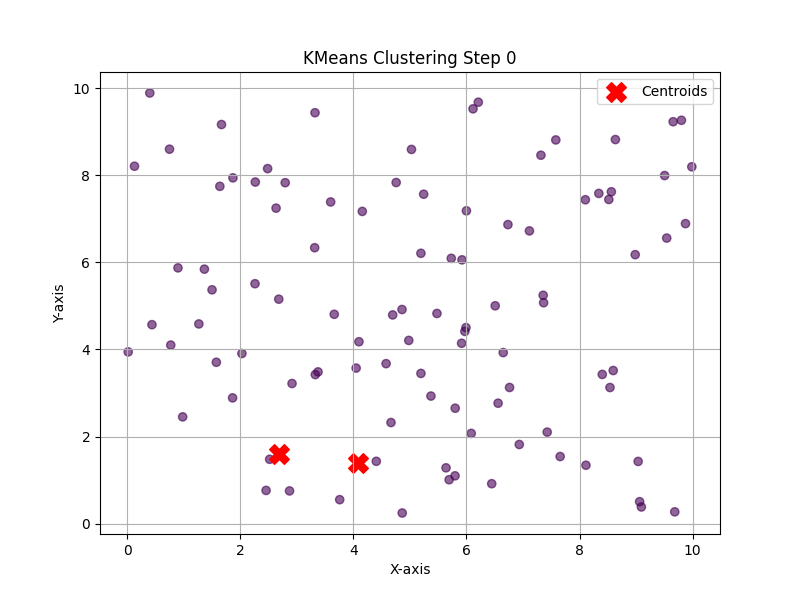
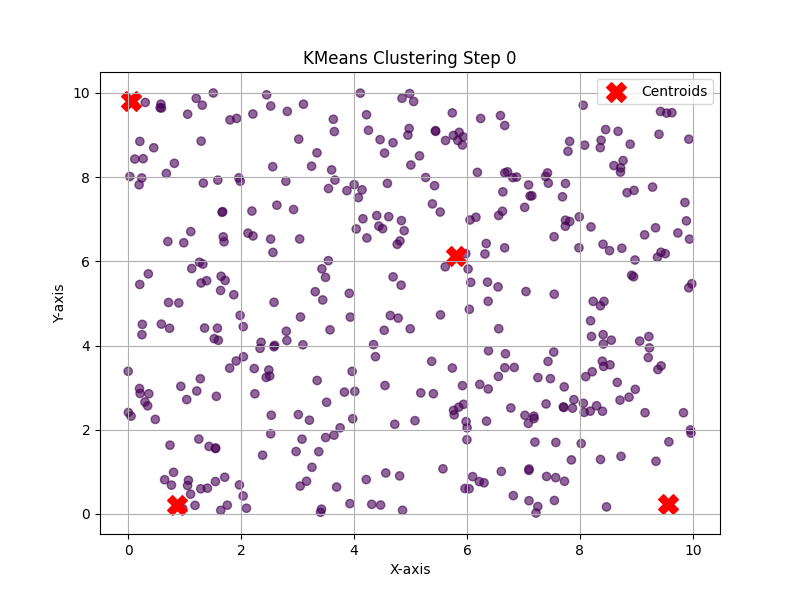
implement everything except manual

diff --git a/static/scripts.js b/static/scripts.js
@@ -4,7 +4,8 @@ let totalSteps = 0;
 
 
 function generateInitialVisualization(){
-    const url = `/initial`;
+    const numPoints = document.getElementById('numPoints').value || 100;
+    const url = `/initial?numPoints=${numPoints}&t=${new Date().getTime()}`;
 
     const img = document.getElementById('data-visualization');
     img.src = url;
@@ -30,7 +31,7 @@ function stepThroughKMeans() {
                     return;
                 }
                 // Start the visualization process
-                currentStep++;
+                currentStep = 1;
                 updateVisualization();
             })
             .catch(error => console.error("Error during initialization:", error));
@@ -42,7 +43,6 @@ function stepThroughKMeans() {
         }
         
         // Show the next step visualization
-        currentStep++;
         updateVisualization();
     }
 }
@@ -59,40 +59,159 @@ function updateVisualization() {
 // Function to run to convergence
 function runToConvergence() {
     // Implement functionality to complete the algorithm
-    const kClusters = document.getElementById('kClusters').value;
-    const initMethod = document.getElementById('initMethod').value;
+    if (currentStep == 0) {
+        const kClusters = document.getElementById('kClusters').value;
+        const initMethod = document.getElementById('initMethod').value;
+        
+        // Create the URL for the initial generation request
+        const url = `/generate?k=${kClusters}&init_method=${initMethod}`;
+        
+        // Make an AJAX request to get the total steps from the server
+        fetch(url)
+            .then(response => response.text()) // Assuming the server returns a plain text with totalSteps
+            .then(data => {
+                totalSteps = parseInt(data, 10); // Convert the response to an integer
+                if (isNaN(totalSteps)) {
+                    console.error("Failed to retrieve total steps from the server.");
+                    return;
+                }
+                // Start the visualization process
+                currentStep = totalSteps;
+                updateVisualization();
+            })
+            .catch(error => console.error("Error during initialization:", error));
+    } else {
+        // Check if we have reached the total steps
+        if (currentStep >= totalSteps) {
+            alert("KMeans has converged.");
+            return; // Stop if we've reached the end
+        }
+        
+        // Show the next step visualization
+        currentStep = totalSteps;
+        updateVisualization();
+    }
 }
 
 // Function to generate a new dataset
 function generateNewDataset() {
-    resetAlgorithm();  // Reset any existing data
-    generateInitialVisualization();  // Generate a new dataset
+
+    const numPoints = document.getElementById('numPoints').value || 100;
+    const url = `/newDataset?numPoints=${numPoints}&t=${new Date().getTime()}`;
+
+    currentStep = 0;
+    totalSteps = 0;
+
+    const img = document.getElementById('data-visualization');
+    img.src = url;
+    img.style.display = 'block'; // Show the image
+
 }
 
 // Function to reset the algorithm
 function resetAlgorithm() {
     // Reset necessary variables and UI components
-    document.getElementById('kClusters').value = '';
-    document.getElementById('initMethod').selectedIndex = 0;
+    const url = `/reset`;
+
     const img = document.getElementById('data-visualization');
-    img.src = ''; // Hide the image
+    img.src = url;
+    img.style.display = 'block'; // Show the image
+    currentStep = 0;
+    totalSteps = 0;
 }
+document.getElementById('initMethod').addEventListener('change', function () {
+    const selectedMethod = this.value;
+    const canvas = document.getElementById('manualCanvas');
+    const img = document.getElementById('data-visualization');
+
+    if (selectedMethod === 'manual') {
+        img.style.display = 'none';
+        canvas.style.display = 'block';
+        initManualSelection();
+    } else {
+        canvas.style.display = 'none';
+        img.style.display = 'block';
+    }
+});
+
+let manualPoints = [];
+let kValue = 0;
+
+function initManualSelection() {
+    const canvas = document.getElementById('manualCanvas');
+    const ctx = canvas.getContext('2d');
+    ctx.clearRect(0, 0, canvas.width, canvas.height); // Clear canvas
+    manualPoints = [];
+    
+    // Retrieve the value of k from the input
+    kValue = parseInt(document.getElementById('kClusters').value);
+
+    if (isNaN(kValue) || kValue <= 0) {
+        alert("Please enter a valid number of clusters (k) before selecting points.");
+        return;
+    }
+
+    // Add event listener for clicking on the canvas
+    canvas.addEventListener('click', selectPoint);
+}
+
+function selectPoint(event) {
+    if (manualPoints.length >= kValue) {
+        alert(`You have already selected ${kValue} points.`);
+        return;
+    }
+
+    const canvas = document.getElementById('manualCanvas');
+    const rect = canvas.getBoundingClientRect();
+    const x = event.clientX - rect.left;
+    const y = event.clientY - rect.top;
+    const ctx = canvas.getContext('2d');
+
+    drawPoint(x, y, ctx);
+    manualPoints.push({ x: x, y: y });
+
+    console.log('Selected Points:', manualPoints);
+
+    if (manualPoints.length === kValue) {
+        alert(`You have selected all ${kValue} points.`);
+        // Optionally, disable further clicks or start the KMeans algorithm
+        canvas.removeEventListener('click', selectPoint);
+    }
+}
+
+function drawPoint(x, y, ctx) {
+    ctx.beginPath();
+    ctx.arc(x, y, 5, 0, 2 * Math.PI);
+    ctx.fillStyle = 'red';
+    ctx.fill();
+    ctx.stroke();
+}
+
+// Function to send manual points to the server when KMeans starts
+function startKMeansWithManualPoints() {
+    if (manualPoints.length !== kValue) {
+        alert(`Please select exactly ${kValue} points before starting the KMeans algorithm.`);
+        return;
+    }
+
+    fetch('/set_manual_points', {
+        method: 'POST',
+        headers: {
+            'Content-Type': 'application/json'
+        },
+        body: JSON.stringify({ points: manualPoints })
+    })
+    .then(response => response.json())
+    .then(data => {
+        console.log('Manual points sent successfully:', data);
+    })
+    .catch((error) => {
+        console.error('Error:', error);
+    });
+}
+
 
 // Automatically generate visualization on page load
 window.onload = function() {
     generateInitialVisualization();
 };
-
-// function generateVisualization() {
-//     const numPoints = document.getElementById('numPoints').value || 100;
-//     const kClusters = document.getElementById('kClusters').value;
-//     const initMethod = document.getElementById('initMethod').value;
-
-//     // Create the URL for the image request
-//     const url = `/generate?num_points=${numPoints}&k=${kClusters}&init_method=${initMethod}`;
-
-//     // Update the image source to fetch the generated image
-//     const img = document.getElementById('data-visualization');
-//     img.src = url;
-//     img.style.display = 'block'; // Show the image
-// }

diff --git a/templates/index.html b/templates/index.html
@@ -31,16 +31,17 @@
             </div>
             <div class="col-3"></div>
         </div>
-        <div class="row">
+        <div class="row my-3">
             <div class="col-8">
                 <!-- Need to fix this part -->
                 <div class="matplot">
                     <img id="data-visualization" alt="Data Visualization" style="display:none;">
+                    <div id="plotly-div" style="display:none;"></div>
                 </div>
             </div>
             <div class="col-4">
                 <div class="row row-cols-1">
-                    <div class="col" style="border: 1px solid blue">
+                    <div class="col">
                         <div class="row row-cols-1">
                             <div class="my-3">
                                 <label  class="form-label text">Number of Clusters (k):</label>
@@ -55,7 +56,7 @@
                                 <select class="form-select my-3" id="initMethod" aria-label="Default select example">
                                     <option value="" disabled selected>Select the Initialization Method</option>
                                     <option value="random">Random</option>
-                                    <option value="farthest">Farthest First</option>
+                                    <option value="farthest_first">Farthest First</option>
                                     <option value="kmean_plus">KMean++</option>
                                     <option value="manual">Menual</option>
                                 </select>

diff --git a/app.py b/app.py
@@ -3,13 +3,19 @@ import numpy as np
 import matplotlib.pyplot as plt
 from io import BytesIO
 from kmean_implementation import KMeans, generate_dataset, initial_capture
+import os
+import glob
+
+# Path to the folder
+folder_path = 'static/step_images/'
 
 app = Flask(__name__)
 
 # Global variable to hold the dataset
 # data_points = []
-kmean = None
+kmeans = None
 total_step = 0
+data_points = None
 
 @app.route('/')
 def index():
@@ -18,14 +24,14 @@ def index():
 @app.route('/initial')
 def initial():
     global data_points
-    num_points = 100
+    num_points = int(request.args.get('numPoints', 100))
     
     data_points = generate_dataset(num_points)
     
     initial_capture(data_points)
 
     # Send the image back
-    return send_file('static/initial_visualization.png')  # 이미지 파일 전송
+    return send_file('static/initial_visualization.png')
 
 @app.route('/step')
 def step():
@@ -36,6 +42,8 @@ def step():
 
 @app.route('/generate')
 def generate():
+    global kmeans
+    global total_step
     k = int(request.args.get('k', 0))
     init_method = request.args.get('init_method', 'random')
     
@@ -44,3 +52,53 @@ def generate():
     total_step = kmeans.lloyds(init_method)  # Run the KMeans algorithm
     
     return str(total_step)
+
+@app.route('/reset')
+def reset():
+    global kmeans
+    kmeans = None 
+    global total_step
+    total_step = 0
+    
+    # Use glob to find all files in the folder
+    files = glob.glob(os.path.join(folder_path, '*'))
+
+    # Delete each file
+    for file in files:
+        os.remove(file)
+        print(f"Deleted {file}")
+    
+    return send_file('static/initial_visualization.png')  # 이미지 파일 전송
+    
+@app.route('/newDataset')
+def newDataSet():
+    global kmeans
+    kmeans = None 
+    global total_step
+    total_step = 0
+    
+    # Use glob to find all files in the folder
+    files = glob.glob(os.path.join(folder_path, '*'))
+
+    # Delete each file
+    for file in files:
+        os.remove(file)
+        print(f"Deleted {file}")
+        
+    global data_points
+    num_points = int(request.args.get('numPoints', 100))
+    
+    data_points = generate_dataset(num_points)
+    
+    initial_capture(data_points)
+
+    # Send the image back
+    return send_file('static/initial_visualization.png')
+
+
+@app.route('/set_manual_points', methods=['POST'])
+def set_manual_points():
+    manual_points = request.json['points']
+    global data_points  # Assuming data_points is the list where you want to store these points
+    data_points = [(p['x'], p['y']) for p in manual_points]
+    return {'status': 'success'}

diff --git a/kmean_implementation.py b/kmean_implementation.py
@@ -19,6 +19,7 @@ def initial_capture(data):
     plt.ylabel('Y-axis')
     plt.grid()
     plt.savefig('static/initial_visualization.png')  # 이미지를 static 폴더에 저장
+    plt.close()
 
 def manual_center_pick():
     pass
